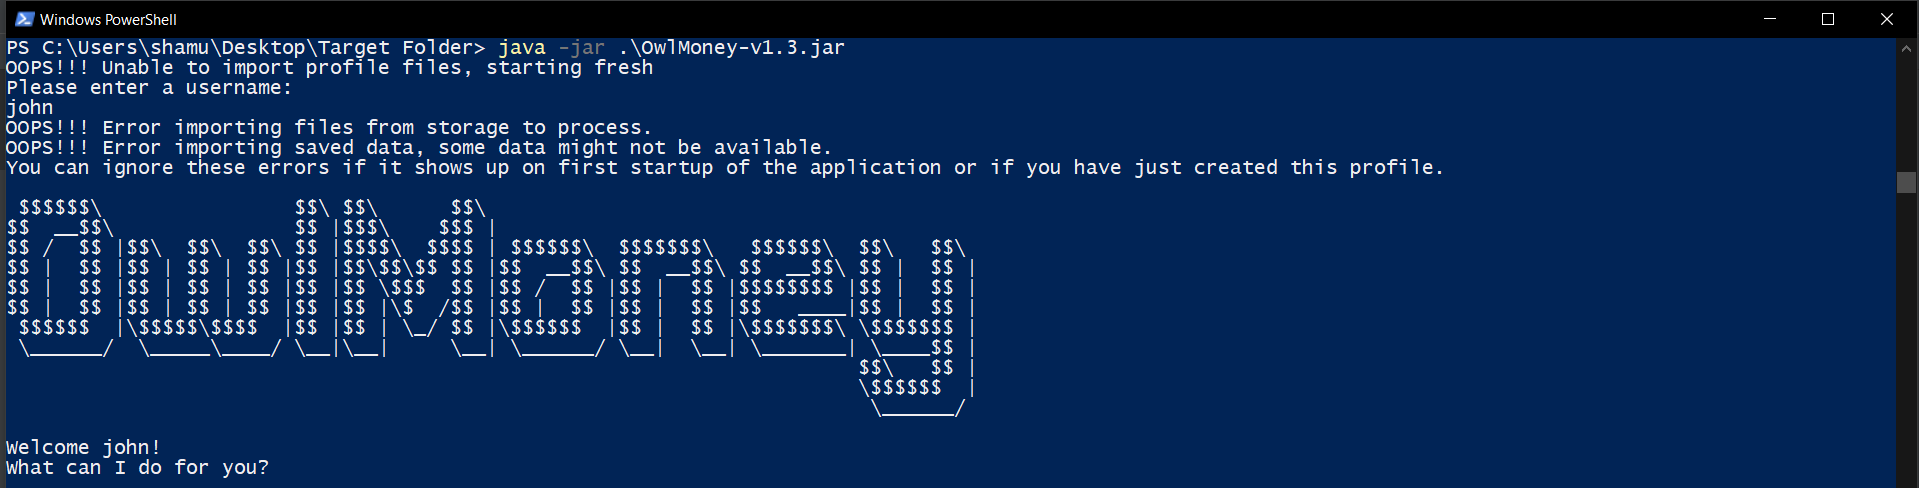
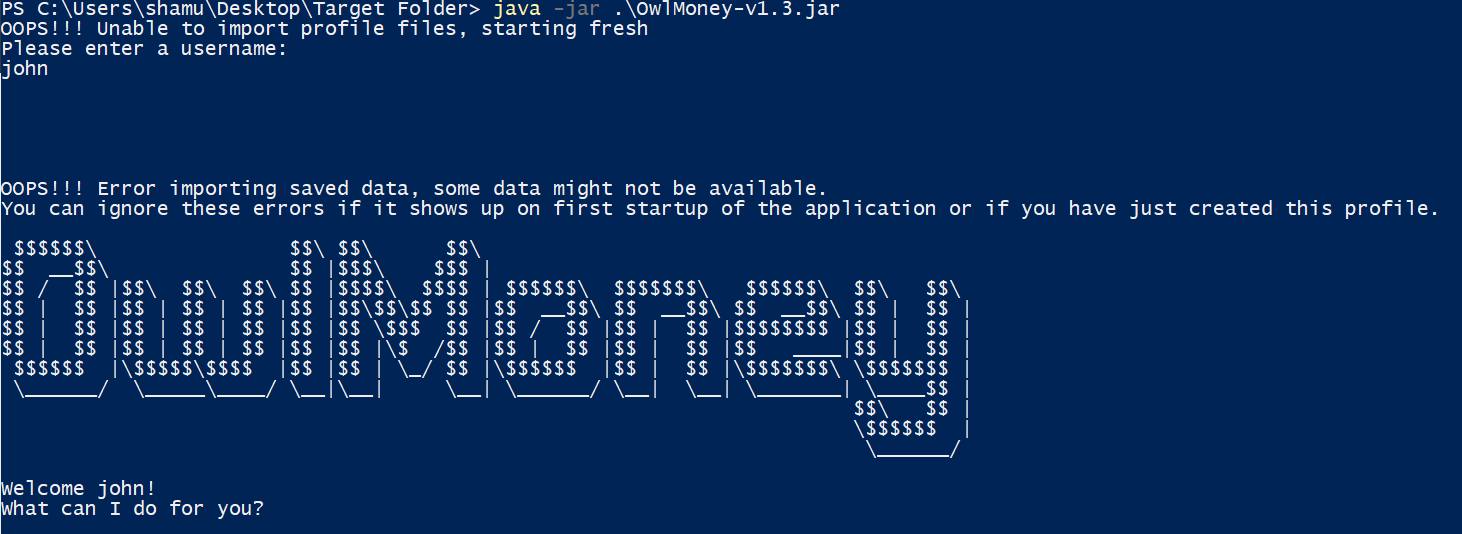
Urgent fixes to storage on jar files

Changed region(s): [[0.0, 0.0, 1.0, 1.0]]

diff --git a/src/main/java/owlmoney/model/profile/Profile.java b/src/main/java/owlmoney/model/profile/Profile.java
@@ -73,7 +73,17 @@ public class Profile {
         this.ui = ui;
         try {
             loadBanksFromImportedData();
+        } catch (Exception e) {
+            //Will be used for logging when implementing. Currently it will print nothing.
+            ui.printMessage("");
+        }
+        try {
             iterateBanksToAddTransaction();
+        } catch (Exception e) {
+            //Will be used for logging when implementing. Currently it will print nothing.
+            ui.printMessage("");
+        }
+        try {
             loadGoalsFromImportedData();
         } catch (Exception e) {
             ui.printError("Error importing saved data, some data might not be available. "
@@ -713,7 +723,7 @@ public class Profile {
         try {
             importData = storage.readFile(fileName);
         } catch (IOException | NullPointerException e) {
-            ui.printError("Error importing files from storage to process.");
+            ui.printMessage("");
         }
         return importData;
     }
@@ -757,13 +767,28 @@ public class Profile {
             if (bankType.equals(INVESTMENT)) {
                 String transactionFileName = i + INVESTMENT_TRANSACTION_LIST_FILE_NAME;
                 String bondsFileName = i + INVESTMENT_BOND_LIST_FILE_NAME;
-                loadBondsForInvestmentBanks(bondsFileName,bankName);
-                loadTransactionsForBanks(transactionFileName,bankName, bankType);
+                try {
+                    loadBondsForInvestmentBanks(bondsFileName,bankName);
+                } finally {
+                    try {
+                        loadTransactionsForBanks(transactionFileName,bankName, bankType);
+                    } catch (Exception e){
+                        ui.printMessage("");
+                    }
+                }
+
             } else if (bankType.equals(SAVING)) {
                 String fileName = i + SAVING_TRANSACTION_LIST_FILE_NAME;
-                loadTransactionsForBanks(fileName,bankName, bankType);
                 String recurringTransactionFileName = i + SAVING_RECURRING_TRANSACTION_LIST_FILE_NAME;
-                loadRecurringTransactionsForBanks(recurringTransactionFileName,bankName,bankType);
+                try {
+                    loadTransactionsForBanks(fileName,bankName, bankType);
+                } finally {
+                    try {
+                        loadRecurringTransactionsForBanks(recurringTransactionFileName,bankName,bankType);
+                    } catch (Exception e) {
+                        ui.printMessage("");
+                    }
+                }
             }
         }
     }
@@ -943,6 +968,7 @@ public class Profile {
     private void loadGoalsFromImportedData() throws Exception {
         List<String[]> importData = importListDataFromStorage(PROFILE_GOAL_LIST_FILE_NAME,ui);
         for (String[] importDataRow : importData) {
+            Goals newGoal;
             String goalName = importDataRow[0];
             String amount = importDataRow[1];
             String date = importDataRow[2];
@@ -950,9 +976,17 @@ public class Profile {
             Date dateInFormat = dateFormat.parse(date);
             String savingsAccountName = importDataRow[3];
             double doubleAmount = Double.parseDouble(amount);
-            Goals newGoal = new Goals(goalName,doubleAmount,dateInFormat,
-                    bankList.bankListGetSavingAccount(savingsAccountName));
-            profileImportNewGoals(newGoal);
+            if(savingsAccountName.equals("")) {
+                newGoal = new Goals(goalName,doubleAmount,dateInFormat);
+            } else {
+                newGoal = new Goals(goalName,doubleAmount,dateInFormat,
+                        bankList.bankListGetSavingAccount(savingsAccountName));
+            }
+            try {
+                profileImportNewGoals(newGoal);
+            } catch (Exception e) {
+                throw new Exception(e);
+            }
         }
     }
 

diff --git a/src/main/java/owlmoney/model/goals/GoalsList.java b/src/main/java/owlmoney/model/goals/GoalsList.java
@@ -275,6 +275,9 @@ public class GoalsList {
             String stringAmount = decimalFormat.format(amount);
             String date = exportDateFormat.format(goalList.get(i).getGoalsDateInDateFormat());
             String savingsAccountName = goalList.get(i).getSavingAccount();
+            if(savingsAccountName.equals("NOT TIED")) {
+                savingsAccountName = null;
+            }
             boolean doneStatus = goalList.get(i).getRawStatus();
             String stringDoneStatus = String.valueOf(doneStatus);
             exportArrayList.add(new String[]{goalName, stringAmount, date, savingsAccountName, stringDoneStatus});

diff --git a/src/main/java/owlmoney/logic/parser/goals/ParseGoals.java b/src/main/java/owlmoney/logic/parser/goals/ParseGoals.java
@@ -63,7 +63,7 @@ public abstract class ParseGoals {
     void checkFirstParameter() throws ParserException {
         String[] rawDataSplit = rawData.split(" ", 2);
         if (!GOALS_KEYWORD_LISTS.contains(rawDataSplit[0])) {
-            throw new ParserException("Incorrect parameter" + rawDataSplit[0]);
+            throw new ParserException("Incorrect parameter: " + rawDataSplit[0]);
         }
     }
 
